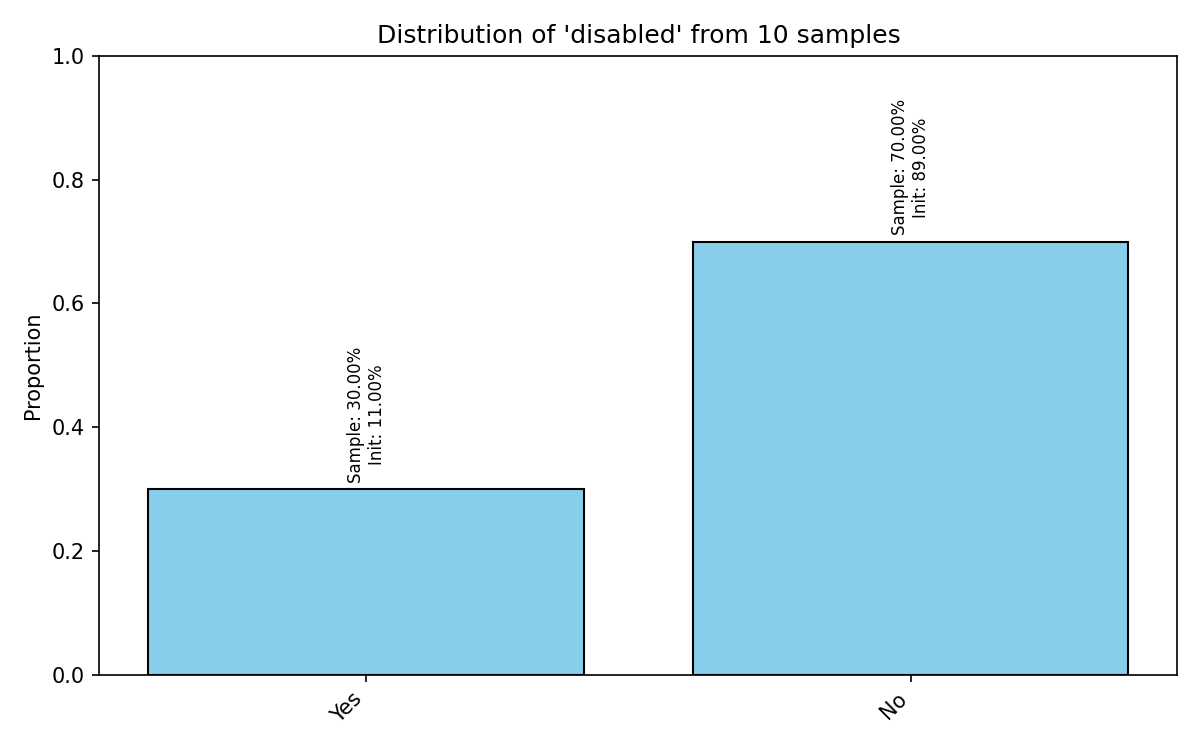
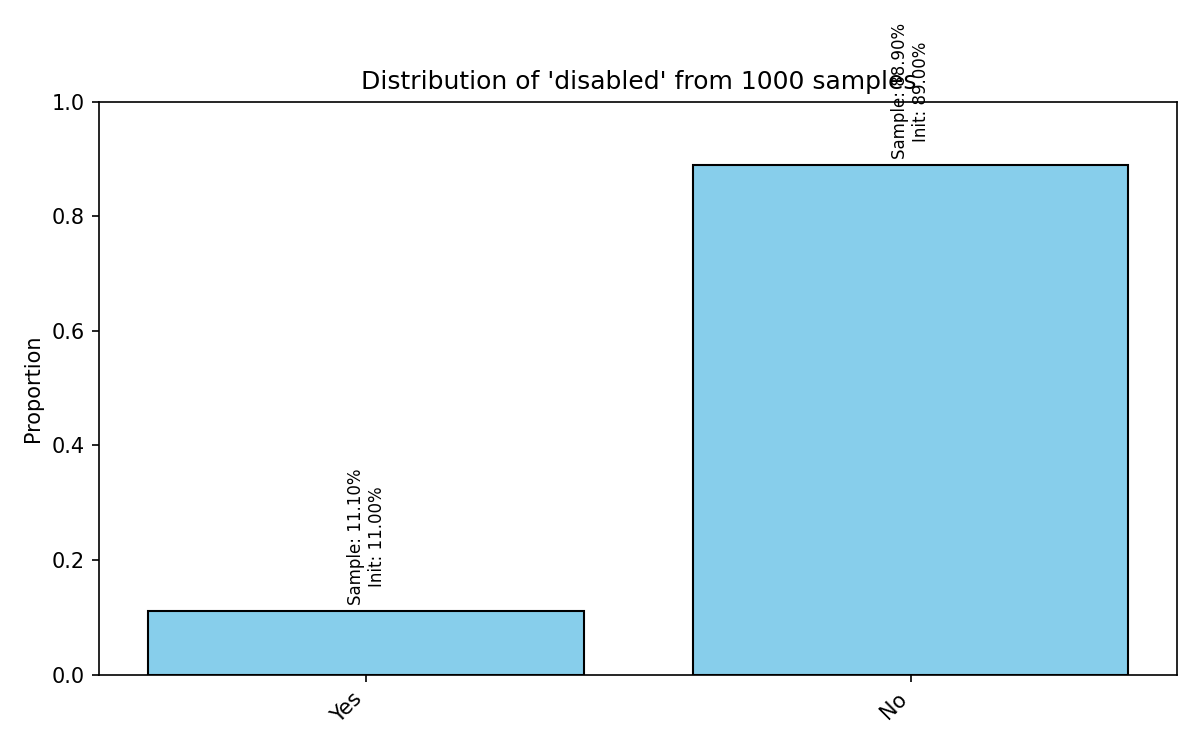
Plot updates

diff --git a/users/plot_distribution.py b/users/plot_distribution.py
@@ -149,4 +149,4 @@ def sample_and_plot_distributions(num_samples=10, output_dir="./users/output"):
 if __name__ == "__main__":
     random.seed(42)
     np.random.seed(42)
-    sample_and_plot_distributions(num_samples=10)
+    sample_and_plot_distributions(num_samples=1000)
